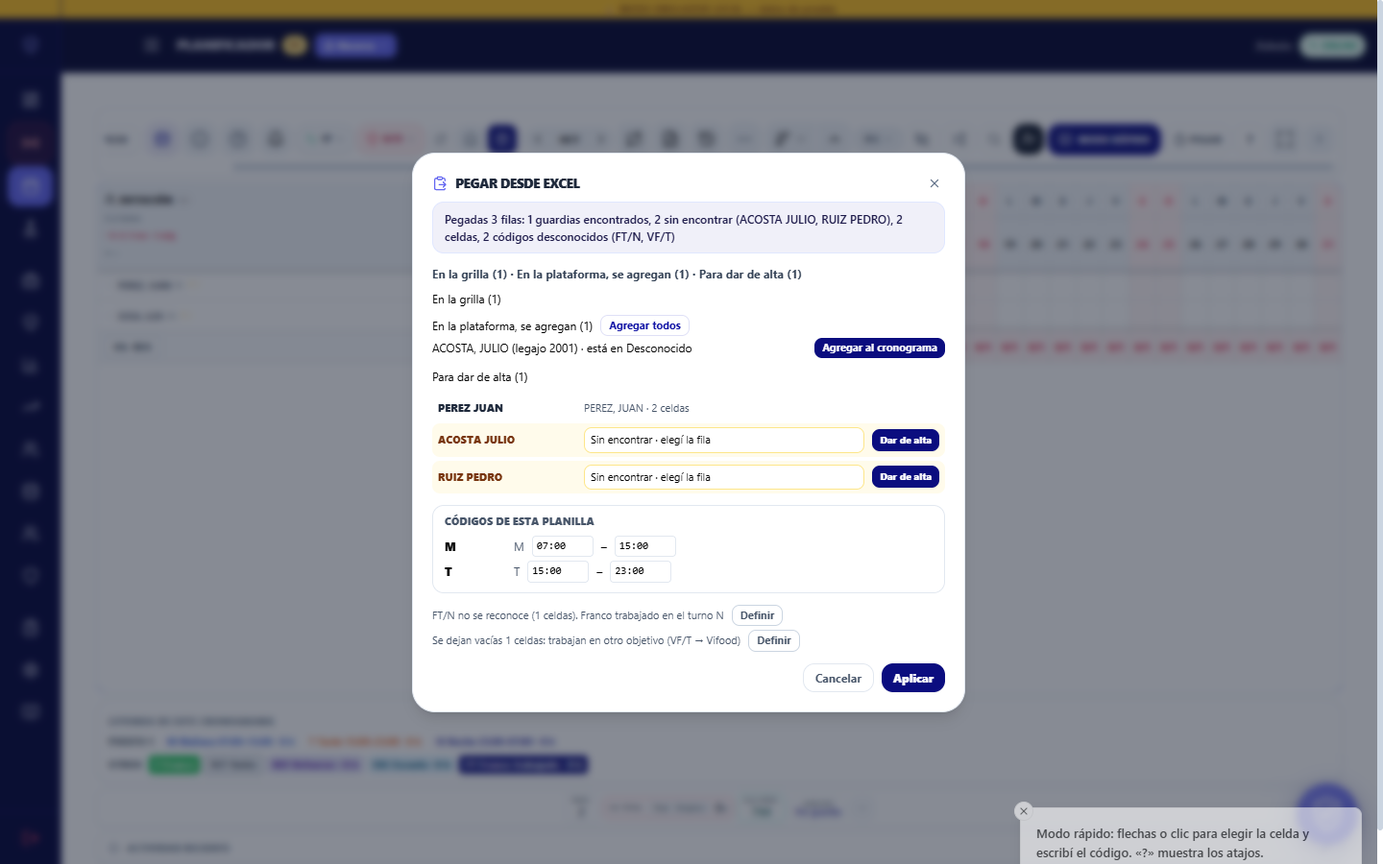
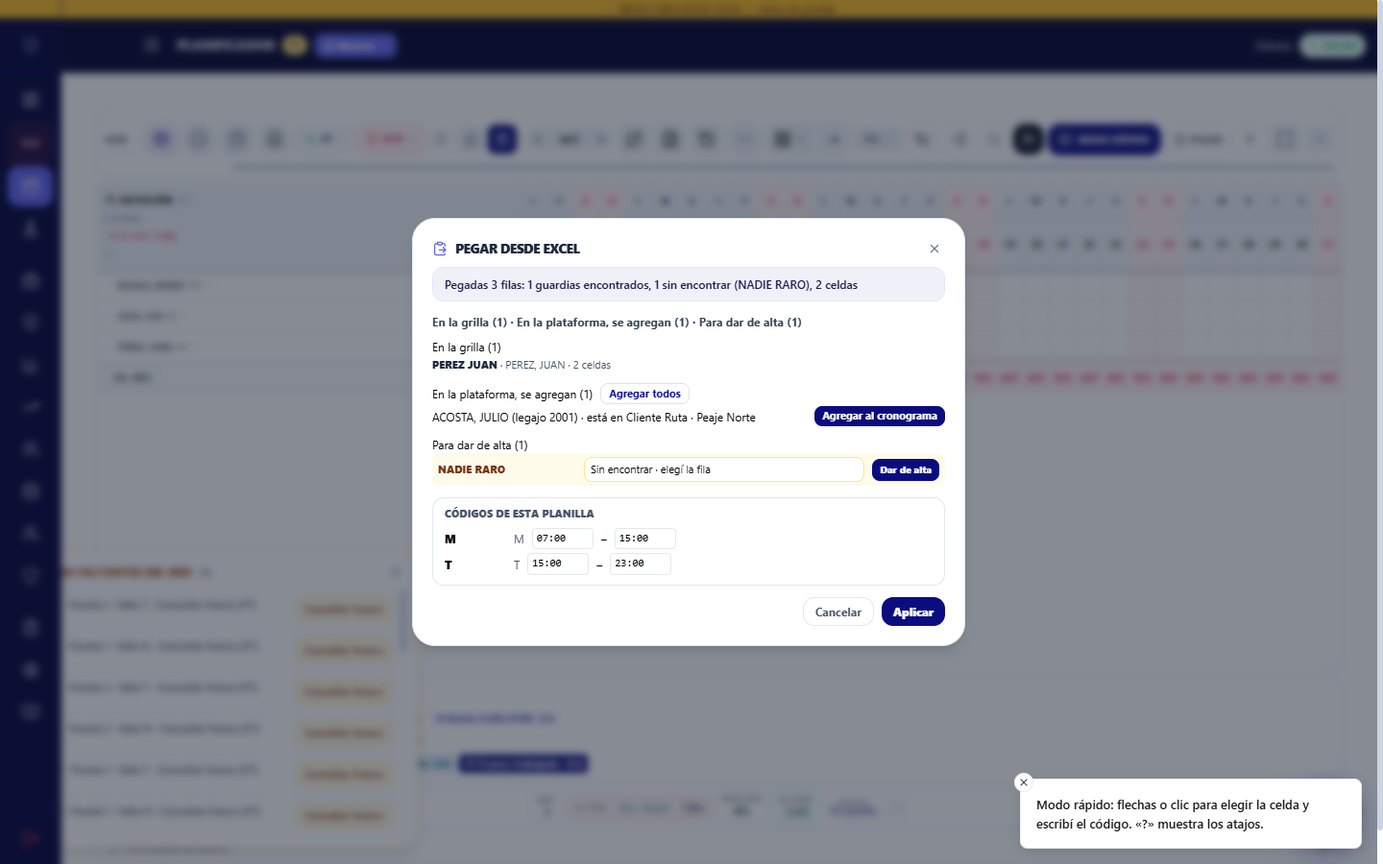
feat(planificacion): el resumen de pegado dice el objetivo real y no duplica al guardia.
Quien ya está en la plataforma no vuelve a «sin encontrar», y el lugar sale de los turnos del mes resuelto contra el cliente y el objetivo.

diff --git a/apps/web2/src/components/planificacion/ModoRapidoPiezas.tsx b/apps/web2/src/components/planificacion/ModoRapidoPiezas.tsx
@@ -2,7 +2,7 @@ import React, { useEffect, useMemo, useRef, useState } from 'react';
 import { createPortal } from 'react-dom';
 import { AlertTriangle, ClipboardPaste, Keyboard, Search, X } from 'lucide-react';
 import { agruparAvisos, ATAJOS_MODO_RAPIDO, idAviso, idGrupoAviso, textoDiaE, textoResumenPegado, type AvisoRapido, type FilaPegadoExcel, type GuardiaPegado, type PreviewPegadoExcel, type TipoNovedadRapida } from '@/lib/planificacion/modoRapido';
-import { clasificarPegado, textoGruposPegado, textoPlataforma } from '@/lib/planificacion/pegarPersonas';
+import { clasificarPegado, indicesAsignados, sinEncontrarVisibles, textoGruposPegado, textoPlataforma } from '@/lib/planificacion/pegarPersonas';
 import { equivalenciaDeDefinicion, proponerDefinicion, textoCeldasVacias } from '@/lib/planificacion/definirCodigo';
 import { cambiosHorarioServicio } from '@/lib/planificacion/codigosHorarioPegado';
 
@@ -360,14 +360,16 @@ export function PegarExcelModal({
     const [definiendo, setDefiniendo] = useState<string | null>(null);
     const [horarios, setHorarios] = useState(tabla || []);
     useEffect(() => { if (tabla) setHorarios(tabla); }, [tabla]);
+    const grupos = estado.paso === 'resumen' ? clasificarPegado(estado.preview.filas, plataforma || [], padron || null) : null;
+    const enPlataformaIdx = new Set(grupos?.enPlataforma.map((x) => x.fila.indice) ?? []);
+    const ocupadas = new Set(estado.paso === 'resumen' ? Object.values(estado.asignacion).filter((v): v is number => v != null) : []);
     const resumen = estado.paso === 'resumen' ? textoResumenPegado({
         filas: estado.preview.filas.length,
         encontrados: estado.preview.filas.filter((f) => estado.asignacion[f.indice] != null).length,
-        sinEncontrar: estado.preview.filas.filter((f) => estado.asignacion[f.indice] == null).map((f) => f.nombre),
+        sinEncontrar: sinEncontrarVisibles(estado.preview.filas, indicesAsignados(estado.asignacion), enPlataformaIdx),
         celdas: estado.preview.filas.reduce((a, f) => a + (estado.asignacion[f.indice] == null ? 0 : f.celdas.length), 0),
         desconocidos: estado.preview.desconocidos,
     }) : '';
-    const ocupadas = new Set(estado.paso === 'resumen' ? Object.values(estado.asignacion).filter((v): v is number => v != null) : []);
     return (
         <div className="fixed inset-0 z-[12000] flex items-center justify-center bg-slate-900/50 p-4 backdrop-blur-sm" onClick={onCerrar} data-pegar-excel={estado.paso}>
             <div className="max-h-[calc(100dvh-2rem)] w-full max-w-xl overflow-auto rounded-3xl border border-slate-200 bg-white p-5 shadow-lg" onClick={(e) => e.stopPropagation()}>
@@ -443,35 +445,45 @@ export function PegarExcelModal({
                                 <p className="text-[10px] leading-snug text-amber-800">Vincular asigna a cada guardia al servicio del evento (respeta el cupo). Sin vincular, la celda queda marcada «Afectado a evento» y no se escribe ningún turno.</p>
                             </div>
                         )}
-                        {estado.paso === 'resumen' && plataforma && (() => {
-                            const g = clasificarPegado(estado.preview.filas, plataforma, padron || null);
-                            return (
-                                <div className="mb-3 space-y-2 text-[12px]" data-pegar-grupos>
-                                    <p className="font-bold text-slate-700" data-pegar-grupos-texto>{textoGruposPegado(g)}{fechaPadron ? ` · Padrón del ${fechaPadron}` : ''}</p>
-                                    <p data-pegar-en-grilla>En la grilla ({g.enGrilla.length})</p>
-                                    <div data-pegar-en-plataforma>
-                                        <div className="flex items-center gap-2">
-                                            <span>En la plataforma, se agregan ({g.enPlataforma.length})</span>
-                                            {g.enPlataforma.length > 0 && onAgregarTodos && (
-                                                <button type="button" className="rounded-lg border border-indigo-200 px-2 py-0.5 text-[11px] font-bold text-indigo-700" data-pegar-agregar-todos onClick={() => onAgregarTodos(g.enPlataforma.map((x) => ({ fila: x.fila, personaId: x.persona.id })))}>Agregar todos</button>
-                                            )}
-                                        </div>
-                                        {g.enPlataforma.map((x) => (
-                                            <div key={x.fila.indice} className="flex items-center gap-2 py-0.5" data-pegar-plataforma={x.persona.legajo}>
-                                                <span className="flex-1">{textoPlataforma(x.persona)}</span>
-                                                <button type="button" className="rounded-lg bg-indigo-600 px-2 py-0.5 text-[11px] font-bold text-white" data-pegar-agregar={x.persona.id} onClick={() => onAgregar?.(x.fila, x.persona.id)}>Agregar al cronograma</button>
-                                            </div>
-                                        ))}
-                                    </div>
-                                    <p data-pegar-para-alta>Para dar de alta ({g.paraAlta.length})</p>
+                        {estado.paso === 'resumen' && grupos && (
+                            <div className="mb-3 space-y-2 text-[12px]" data-pegar-grupos>
+                                <p className="font-bold text-slate-700" data-pegar-grupos-texto>{textoGruposPegado(grupos)}{fechaPadron ? ` · Padrón del ${fechaPadron}` : ''}</p>
+                                <div data-pegar-en-grilla>
+                                    <p>En la grilla ({grupos.enGrilla.length})</p>
+                                    {grupos.enGrilla.map((f) => {
+                                        const guardia = guardias.find((g) => g.fila === (estado.asignacion[f.indice] ?? f.filaGrilla));
+                                        return (
+                                            <p key={f.indice} className="py-0.5 text-[11px] text-slate-600">
+                                                <span className="font-black text-slate-800">{f.nombre}</span>
+                                                {guardia ? ` · ${guardia.nombre}` : ''} · {f.celdas.length} celdas
+                                            </p>
+                                        );
+                                    })}
                                 </div>
-                            );
-                        })()}
-                        <ul className="mb-3 max-h-64 space-y-1 overflow-auto">
-                            {estado.preview.filas.map((f) => (
-                                <FilaResumen key={f.indice} fila={f} guardias={guardias} ocupadas={ocupadas} asignada={estado.asignacion[f.indice] ?? null} onAsignar={onAsignar} puedeAlta={puedeAlta} onDarDeAlta={onDarDeAlta} />
-                            ))}
-                        </ul>
+                                <div data-pegar-en-plataforma>
+                                    <div className="flex items-center gap-2">
+                                        <span>En la plataforma, se agregan ({grupos.enPlataforma.length})</span>
+                                        {grupos.enPlataforma.length > 0 && onAgregarTodos && (
+                                            <button type="button" className="rounded-lg border border-indigo-200 px-2 py-0.5 text-[11px] font-bold text-indigo-700" data-pegar-agregar-todos onClick={() => onAgregarTodos(grupos.enPlataforma.map((x) => ({ fila: x.fila, personaId: x.persona.id })))}>Agregar todos</button>
+                                        )}
+                                    </div>
+                                    {grupos.enPlataforma.map((x) => (
+                                        <div key={x.fila.indice} className="flex items-center gap-2 py-0.5" data-pegar-plataforma={x.persona.legajo}>
+                                            <span className="flex-1">{textoPlataforma(x.persona)}</span>
+                                            <button type="button" className="rounded-lg bg-indigo-600 px-2 py-0.5 text-[11px] font-bold text-white" data-pegar-agregar={x.persona.id} onClick={() => onAgregar?.(x.fila, x.persona.id)}>Agregar al cronograma</button>
+                                        </div>
+                                    ))}
+                                </div>
+                                <div data-pegar-para-alta>
+                                    <p>Para dar de alta ({grupos.paraAlta.length})</p>
+                                    <ul className="max-h-64 space-y-1 overflow-auto">
+                                        {grupos.paraAlta.map((x) => (
+                                            <FilaResumen key={x.fila.indice} fila={x.fila} guardias={guardias} ocupadas={ocupadas} asignada={estado.asignacion[x.fila.indice] ?? null} onAsignar={onAsignar} puedeAlta={puedeAlta} onDarDeAlta={onDarDeAlta} />
+                                        ))}
+                                    </ul>
+                                </div>
+                            </div>
+                        )}
                         {horarios.length > 0 && (
                             <div className="mb-3 rounded-xl border border-slate-200 px-3 py-2" data-pegar-codigos>
                                 <p className="mb-1 text-[11px] font-black uppercase text-slate-500">Códigos de esta planilla</p>

diff --git a/apps/web2/src/lib/planificacion/pegarPersonas.ts b/apps/web2/src/lib/planificacion/pegarPersonas.ts
@@ -53,10 +53,106 @@ export function textoGruposPegado(g: GruposPegado): string {
   return `En la grilla (${g.enGrilla.length}) · En la plataforma, se agregan (${g.enPlataforma.length}) · Para dar de alta (${g.paraAlta.length})`;
 }
 
+export const SIN_OBJETIVO = 'sin objetivo asignado';
+
+export type ObjetivoCatalogo = { id: string; nombre: string; cliente: string };
+
+export type TurnoLugar = { employeeId: string; objectiveId: string; date: string };
+
+/** `clients.objetivos` de la empresa: id, nombre visible y cliente. */
+export function catalogoObjetivos(clients: Array<{ name?: string; objetivos?: Array<{ id?: string; name?: string; nombre?: string }> }>): ObjetivoCatalogo[] {
+  const out: ObjetivoCatalogo[] = [];
+  for (const c of clients || []) {
+    for (const o of c.objetivos || []) {
+      const nombre = String(o?.name || o?.nombre || '').trim();
+      const id = String(o?.id || nombre).trim();
+      if (!id && !nombre) continue;
+      out.push({ id: id || nombre, nombre: nombre || id, cliente: String(c?.name || '').trim() });
+    }
+  }
+  return out;
+}
+
+/** Turnos del mapa de la grilla (clave `empleado_yyyy-mm-dd`). */
+export function turnosLugarDeMapa(shiftsMap: Record<string, { employeeId?: string; objectiveId?: string; scheduleDate?: string; isDeleted?: boolean } | null | undefined>): TurnoLugar[] {
+  const out: TurnoLugar[] = [];
+  for (const [key, s] of Object.entries(shiftsMap || {})) {
+    if (!s || s.isDeleted) continue;
+    const m = key.match(/_(\d{4}-\d{2}-\d{2})$/);
+    const date = String(s.scheduleDate || m?.[1] || '');
+    const employeeId = String(s.employeeId || (m ? key.slice(0, key.length - 11) : ''));
+    const objectiveId = String(s.objectiveId || '').trim();
+    if (!employeeId || !objectiveId || !/^\d{4}-\d{2}-\d{2}$/.test(date)) continue;
+    out.push({ employeeId, objectiveId, date });
+  }
+  return out;
+}
+
+function resolverLugar(clave: string, objetivos: ObjetivoCatalogo[]): string {
+  const id = String(clave || '').trim();
+  if (!id || id === 'Desconocido' || id === 'undefined') return '';
+  const o = objetivos.find((x) => x.id === id || x.nombre === id);
+  if (!o?.nombre) return '';
+  return o.cliente ? `${o.cliente} · ${o.nombre}` : o.nombre;
+}
+
+/**
+ * Dónde trabaja: si este mes tiene turnos, el objetivo de esos turnos
+ * (si hay varios, el que más días tiene; empate, el preferido).
+ * Si no, el objetivo preferido. Siempre resuelto contra el catálogo.
+ */
+export function lugarDeGuardia(input: {
+  employeeId: string;
+  preferredObjectiveId?: string | null;
+  month: string;
+  turnos: TurnoLugar[];
+  objetivos: ObjetivoCatalogo[];
+}): string {
+  const preferido = String(input.preferredObjectiveId || '').trim();
+  const conteo = new Map<string, number>();
+  for (const t of input.turnos) {
+    if (t.employeeId !== input.employeeId) continue;
+    if (input.month && !String(t.date || '').startsWith(`${input.month}-`)) continue;
+    const id = String(t.objectiveId || '').trim();
+    if (!id) continue;
+    conteo.set(id, (conteo.get(id) || 0) + 1);
+  }
+  let elegido = '';
+  let max = 0;
+  for (const id of [...conteo.keys()].sort()) {
+    const n = conteo.get(id) || 0;
+    if (n > max || (n === max && n > 0 && id === preferido)) {
+      max = n;
+      elegido = id;
+    }
+  }
+  if (!elegido) elegido = preferido;
+  return etiquetaLugar(resolverLugar(elegido, input.objetivos));
+}
+
+export function etiquetaLugar(nombre?: string | null): string {
+  const s = String(nombre || '').trim();
+  if (!s || s === 'Desconocido' || s === 'undefined') return SIN_OBJETIVO;
+  return s;
+}
+
+/** Índices de las filas del pegado que ya tienen guardia en la grilla. No son las filas de la grilla. */
+export function indicesAsignados(asignacion: Record<number, number | null | undefined>): Set<number> {
+  return new Set(Object.entries(asignacion).filter(([, v]) => v != null).map(([k]) => Number(k)));
+}
+
+/** Quien ya está en la grilla o en la plataforma no cuenta como «sin encontrar». */
+export function sinEncontrarVisibles(
+  filas: Array<{ indice: number; nombre: string }>,
+  asignados: ReadonlySet<number>,
+  enPlataforma: ReadonlySet<number>,
+): string[] {
+  return filas.filter((f) => !asignados.has(f.indice) && !enPlataforma.has(f.indice)).map((f) => f.nombre);
+}
+
 export function textoPlataforma(p: PersonaPlataforma): string {
   const leg = p.legajo ? ` (legajo ${p.legajo})` : '';
-  const obj = p.objetivoNombre ? ` · está en ${p.objetivoNombre}` : '';
-  return `${p.nombre}${leg}${obj}`;
+  return `${p.nombre}${leg} · está en ${etiquetaLugar(p.objetivoNombre)}`;
 }
 
 /** Los turnos de otro objetivo no se pisan: el aviso no bloquea el pegado. */

diff --git a/apps/web2/src/lib/planificacion/pegarYCodigos.test.ts b/apps/web2/src/lib/planificacion/pegarYCodigos.test.ts
@@ -1,6 +1,6 @@
 import assert from 'node:assert/strict';
 import { describe, it } from 'node:test';
-import { clasificarPegado, textoGruposPegado } from './pegarPersonas';
+import { clasificarPegado, indicesAsignados, lugarDeGuardia, sinEncontrarVisibles, textoGruposPegado, textoPlataforma, type ObjetivoCatalogo } from './pegarPersonas';
 import { equivalenciaDeDefinicion, proponerDefinicion, textoCeldasVacias, yaDefinido } from './definirCodigo';
 import { diagonal, alternarCelda, pegarForma } from './seleccionLibre';
 import { cambiosHorarioServicio, tablaCodigosPlanilla, textoFueraDeServicio } from './codigosHorarioPegado';
@@ -38,6 +38,66 @@ describe('orden de búsqueda al pegar', () => {
     assert.equal(g.paraAlta[1].enPadron, false);
     assert.match(textoGruposPegado(g), /En la grilla \(1\)/);
     assert.match(textoGruposPegado(g), /Para dar de alta \(2\)/);
+    const asignados = new Set(g.enGrilla.map((f) => f.indice));
+    const enPlat = new Set(g.enPlataforma.map((x) => x.fila.indice));
+    const sin = sinEncontrarVisibles(
+      [
+        peg({ indice: 0, nombre: 'PEREZ, JUAN', filaGrilla: 2, via: 'nombre' }),
+        peg({ indice: 1, nombre: 'ACOSTA, JULIO', legajo: '3420' }),
+        peg({ indice: 2, nombre: 'SOSA, PEDRO', legajo: '5001' }),
+        peg({ indice: 3, nombre: 'NADIE, RARO' }),
+      ],
+      asignados,
+      enPlat,
+    );
+    assert.deepEqual(sin, ['SOSA, PEDRO', 'NADIE, RARO']);
+    assert.equal(sin.includes('ACOSTA, JULIO'), false);
+    assert.equal(g.enPlataforma.some((x) => g.paraAlta.some((a) => a.fila.indice === x.fila.indice)), false);
+    const filas = [
+      peg({ indice: 0, nombre: 'PEREZ, JUAN' }),
+      peg({ indice: 1, nombre: 'ACOSTA, JULIO' }),
+      peg({ indice: 2, nombre: 'NADIE, RARO' }),
+    ];
+    const malContadas = sinEncontrarVisibles(filas, indicesAsignados({ 0: 2, 1: null, 2: null }), new Set([1]));
+    assert.deepEqual(malContadas, ['NADIE, RARO']);
+  });
+
+  it('el lugar es cliente · objetivo del mes, o sin objetivo asignado', () => {
+    const objetivos: ObjetivoCatalogo[] = [
+      { id: 'obj_padron', nombre: 'Objetivo Prueba', cliente: 'Cliente Prueba' },
+      { id: 'obj_ruta', nombre: 'Peaje Norte', cliente: 'Cliente Ruta' },
+    ];
+    const turnos = [
+      { employeeId: 'acosta', objectiveId: 'obj_ruta', date: '2026-10-01' },
+      { employeeId: 'acosta', objectiveId: 'obj_ruta', date: '2026-10-02' },
+      { employeeId: 'acosta', objectiveId: 'obj_padron', date: '2026-09-30' },
+      { employeeId: 'mixto', objectiveId: 'obj_padron', date: '2026-10-01' },
+      { employeeId: 'mixto', objectiveId: 'obj_ruta', date: '2026-10-02' },
+      { employeeId: 'mixto', objectiveId: 'obj_ruta', date: '2026-10-03' },
+    ];
+    assert.equal(lugarDeGuardia({
+      employeeId: 'acosta', preferredObjectiveId: '', month: '2026-10', turnos, objetivos,
+    }), 'Cliente Ruta · Peaje Norte');
+    assert.equal(lugarDeGuardia({
+      employeeId: 'vacio', preferredObjectiveId: '', month: '2026-10', turnos, objetivos,
+    }), 'sin objetivo asignado');
+    assert.equal(lugarDeGuardia({
+      employeeId: 'vacio', preferredObjectiveId: 'obj_padron', month: '2026-10', turnos: [], objetivos,
+    }), 'Cliente Prueba · Objetivo Prueba');
+    assert.equal(lugarDeGuardia({
+      employeeId: 'mixto', preferredObjectiveId: 'obj_padron', month: '2026-10', turnos, objetivos,
+    }), 'Cliente Ruta · Peaje Norte');
+    assert.equal(lugarDeGuardia({
+      employeeId: 'roto', preferredObjectiveId: 'no-existe', month: '2026-10', turnos: [], objetivos,
+    }), 'sin objetivo asignado');
+    assert.equal(
+      textoPlataforma({ id: 'a', nombre: 'ACOSTA, JULIO', legajo: '2001', objetivoNombre: 'Desconocido' }),
+      'ACOSTA, JULIO (legajo 2001) · está en sin objetivo asignado',
+    );
+    assert.equal(
+      textoPlataforma({ id: 'a', nombre: 'ACOSTA, JULIO', legajo: '2001', objetivoNombre: 'Cliente Ruta · Peaje Norte' }),
+      'ACOSTA, JULIO (legajo 2001) · está en Cliente Ruta · Peaje Norte',
+    );
   });
 });
 

diff --git a/apps/web2/src/pages/admin/planificacion/index.tsx b/apps/web2/src/pages/admin/planificacion/index.tsx
@@ -263,6 +263,7 @@ import {
 } from '@/lib/planificacion/modoRapido';
 import { tablaCodigosPlanilla } from '@/lib/planificacion/codigosHorarioPegado';
 import { mesLabelDe, resolverTurnoCopiado } from '@/lib/planificacion/copiarTurno';
+import { catalogoObjetivos, lugarDeGuardia, turnosLugarDeMapa } from '@/lib/planificacion/pegarPersonas';
 import {
     CANAL_PORTAPAPELES,
     KEY_PORTAPAPELES,
@@ -3097,8 +3098,10 @@ function PlanificacionDesktop() {
 
     useEffect(() => {
         if (!selectedObjective) return;
+        const ids = displayedEmployees.map((e: { id: string }) => e.id);
+        if (!ids.length) return;
         const month = `${currentDate.getFullYear()}-${String(currentDate.getMonth() + 1).padStart(2, '0')}`;
-        publicarOrdenCrono(selectedObjective, displayedEmployees.map((e: { id: string }) => e.id), month);
+        publicarOrdenCrono(selectedObjective, ids, month);
     }, [selectedObjective, displayedEmployees, currentDate]);
 
     useEffect(() => {
@@ -19364,12 +19367,23 @@ function PlanificacionDesktop() {
                         })}
                         onAplicar={aplicarPegadoExcel}
                         puedeAlta={isSuperAdmin || (rolePermissions['RRHH'] || []).includes('create')}
-                        plataforma={(employees || []).filter((e: any) => e.status !== 'inactivo').map((e: any) => ({
-                            id: e.id,
-                            nombre: String(e.name || ''),
-                            legajo: String(e.fileNumber || ''),
-                            objetivoNombre: e.preferredObjectiveId ? getObjectiveName(e.preferredObjectiveId) : '',
-                        }))}
+                        plataforma={(() => {
+                            const month = `${currentDate.getFullYear()}-${String(currentDate.getMonth() + 1).padStart(2, '0')}`;
+                            const objetivos = catalogoObjetivos(clients || []);
+                            const turnos = turnosLugarDeMapa(shiftsMap);
+                            return (employees || []).filter((e: any) => e.status !== 'inactivo').map((e: any) => ({
+                                id: e.id,
+                                nombre: String(e.name || ''),
+                                legajo: String(e.fileNumber || ''),
+                                objetivoNombre: lugarDeGuardia({
+                                    employeeId: String(e.id || ''),
+                                    preferredObjectiveId: e.preferredObjectiveId,
+                                    month,
+                                    turnos,
+                                    objetivos,
+                                }),
+                            }));
+                        })()}
                         fechaPadron=""
                         onAgregar={(fila, personaId) => {
                             setPinnedExternalEmpIds((prev) => new Set([...prev, personaId]));

diff --git a/CLAUDE.md b/CLAUDE.md
@@ -205,15 +205,11 @@ Acciones por módulo: `read`, `create`, `update`, `delete`.
 
 **Padrón de legajos (10/10, `rrhh-padron`):** RRHH → Legajos → **Padrón** (RRHH `update` o SuperAdmin). Sube el Excel (hoja SP, con o sin encabezado) y compara contra `empleados` de la empresa: Nuevos, Cambios (campo por campo), Bajas para revisar e Iguales. «Aplicar seleccionados» da de alta y actualiza por el mismo escritor del legajo (`confirmarAltaLegajo`, auditoría `PADRON_ALTA` / `PADRON_CAMBIO`). Las bajas no se aplican solas: «Revisar baja» confirma persona por persona y deja `status: inactivo` (nunca se borra). La carga queda en `padron_empleados/{empresaId}_{legajo}` (`enPadron`, `actualizadoAt`, `actualizadoPor`, `origenArchivo`) y el resumen en `padron_estado/{empresaId}`. Una carga nueva reemplaza la consulta: quien ya no viene queda `enPadron: false`. El «Dar de alta» del pegado busca primero ahí y muestra «Padrón del dd/mm/yyyy»; si no hay padrón o la persona no está, ofrece el Excel o el alta manual. Reglas en el repo, sin publicar. Lógica: `lib/rrhh/padronComparar.ts`, `lib/rrhh/padronClient.ts`.
 
-**Pegar nombres y códigos (10/10):** si el nombre no está en la grilla, se busca en los legajos de la empresa (`clasificarPegado`) y el resumen separa «En la grilla», «En la plataforma, se agregan» (pin de dotación, el mismo que «Agregar al cronograma») y «Para dar de alta». Un código desconocido tiene **Definir**: FT/N propone franco trabajado en la N; VF/T, BANCO, STOCK, DECAT, MISE y PM se dejan vacíos (otro objetivo) y se guardan en `planificacion_import_mapeos` para no volver a preguntar. El resumen también muestra «Códigos de esta planilla» con horario editable; si difiere del servicio se ofrece actualizarlo. En modo rápido, debajo de la grilla va la leyenda de códigos (`LeyendaModoRapido`, solo con el modo prendido) y la selección puede ser suelta (Ctrl+clic / Ctrl+espacio) o diagonal (Alt+arrastre / Alt+Shift+flecha).
+**Pegar nombres y códigos (10/10):** si el nombre no está en la grilla, se busca en los legajos de la empresa (`clasificarPegado`) y el resumen separa «En la grilla», «En la plataforma, se agregan» (pin de dotación, el mismo que «Agregar al cronograma») y «Para dar de alta». Cada guardia queda en un solo grupo: quien está en la plataforma no vuelve a «sin encontrar» ni a «Para dar de alta», y el contador del resumen cuenta solo a los que no están. El lugar es «cliente · objetivo» (`lugarDeGuardia`): el objetivo de los turnos de ese mes (si hay varios, el de más días) y, si no hay, el preferido, resuelto contra `clients.objetivos`; si no tiene, «sin objetivo asignado». Un código desconocido tiene **Definir**: FT/N propone franco trabajado en la N; VF/T, BANCO, STOCK, DECAT, MISE y PM se dejan vacíos (otro objetivo) y se guardan en `planificacion_import_mapeos` para no volver a preguntar. El resumen también muestra «Códigos de esta planilla» con horario editable; si difiere del servicio se ofrece actualizarlo. En modo rápido, debajo de la grilla va la leyenda de códigos (`LeyendaModoRapido`, solo con el modo prendido) y la selección puede ser suelta (Ctrl+clic / Ctrl+espacio) o diagonal (Alt+arrastre / Alt+Shift+flecha).
 
 **Copiar el turno del puesto (10/10, modo rápido):** Ctrl+C / Ctrl+V, Ctrl+D / Ctrl+R y el tirador copian el turno de la celda origen: código, `positionName` y horario (`resolverTurnoCopiado` en `lib/planificacion/copiarTurno.ts`). Pegar el M de Puesto 2 deja M de Puesto 2 con ese horario, aunque el guardia destino tenga otro puesto por defecto. Si el puesto no está en el servicio del mes destino, se usa el puesto del guardia con ese código y Avisos dice «Puesto 2 no está en el servicio de noviembre: se usó Puesto 1». Si el puesto por defecto es otro, el aviso es «REGALO tomó un turno de Puesto 2» (informativo). El portapapeles interno (`cosp-planif-portapapeles`, BroadcastChannel) guarda puesto y horario entre objetivos, meses y la ventana externa. El pegado desde Excel sigue por la tabla de equivalencias.
 
 **Ventana externa (10/10, `/admin/planificacion/crono-popout`):** menú ⋯ → Ventana externa. Muestra la dotación del cronograma principal en el mismo orden de filas (`publicarOrdenCrono`, se actualiza si se reordena). Solo lista quien tiene turno en el objetivo y mes que se está viendo; el resto queda en «N sin turno en este mes». Solo lectura: clic, Mayús o arrastre y Ctrl+C copian código, puesto y horario al portapapeles compartido (y TSV al del sistema) para Ctrl+V en la grilla. Con la columna de nombres, el pegado se alinea por guardia; sin ella, por posición. Selector «Día del mes | Día de la semana»: en meses distintos, la semana alinea la columna 1 con el mismo día de la semana que el cronograma principal.
-
-**Copiar el turno del puesto (10/10):** en modo rápido, Ctrl+C / Ctrl+V, Ctrl+D / Ctrl+R y el tirador copian el turno de la celda origen: código, `positionName` y horario de esa franja (un código propio viaja con el puesto). `resolverTurnoCopiado` (`lib/planificacion/copiarTurno.ts`). Si el puesto no está en el servicio del mes destino, se usa el puesto del guardia con ese código y Avisos dice «Puesto 2 no está en el servicio de noviembre: se usó Puesto 1». Si el puesto por defecto del destino es otro, se respeta el origen y Avisos dice «REGALO tomó un turno de Puesto 2». El portapapeles interno (`cosp-planif-portapapeles`, BroadcastChannel) guarda puesto y horario entre objetivos y meses. El pegado desde Excel sigue por la tabla de equivalencias.
-
-**Ventana externa (10/10, `/admin/planificacion/crono-popout`):** menú ⋯ → Ventana externa. Muestra la dotación del cronograma principal (`main=` en la URL) en el mismo orden de filas (`publicarOrdenCrono` / `cosp-planif-orden:{objetivo}`, BroadcastChannel y `storage`). Si el principal reordena, la ventana se actualiza. Solo lista quien tiene turno en el objetivo y mes que se está viendo; el resto queda colapsado («3 sin turno en este mes»). Sigue en solo lectura: clic, Mayús o arrastre y Ctrl+C copian código, puesto y horario al portapapeles compartido y como TSV. Con la columna del nombre, Ctrl+V en la grilla principal alinea por guardia; sin nombre, por posición. El selector «Día del mes / Día de la semana» alinea el lunes para comparar rachas entre meses.
 
 **Modo rápido de la grilla (escritorio, 09/10):** botón **Modo rápido** en la barra (`data-modo-rapido-toggle`), recordado por usuario en `localStorage` `cosp-planif-modo-rapido:{uid}`, con **?** (atajos, `ModoRapidoAyuda`). La grilla se usa como una planilla: flechas, Tab / Shift+Tab, Enter, Home / End, Ctrl+flechas (salto al borde del bloque), PageUp/Down, Esc, scroll que sigue al cursor; se tipea el código en la celda (autocompletar con los turnos del puesto, F2 edita, Supr borra). Horario del código: SLA del puesto → estándar (M 07–15, T 15–23, N 23–07, D12 07–19, N12 19–07) → el último usado con ese código (`horarioDeCodigo`). Cualquier código del catálogo `tipos_novedad` (V, E, A, ART, SGS, SUS, LT, MAVIC, PG…; `resolverNovedad`, el mismo predicado `esCeldaLicencia`) se tipea o se elige con Ctrl+L o `/` y va por la misma escritura de ausencia que el modal (novedad pendiente → `ausencias` al guardar, un registro por rango continuo con `fusionarNovedadesContinuas`), sin modal; sobre un turno conserva la banda (`camposBandaConservada`). Supr quita el borrador; una ausencia ya guardada pide confirmación y pasa a `Rechazada`. Rango con Shift o arrastre: lo tipeado va a todo el rango; Ctrl+C / Ctrl+X / Ctrl+V entre objetivos y meses (portapapeles interno) y pegado desde Excel (`prepararPegadoExcel`): si el bloque trae nombre, legajo o puesto antes de los días, se alinea por guardia (legajo, luego apellido y nombre, luego parecido) y el resumen pide Aplicar o Cancelar —los que no están se asignan a mano en ese cuadro—; un mes de 28 a 31 días entra desde el día 1 y un recorte desde el día del cursor; sin nombres se pega por posición; Ctrl+V sin cursor y el botón Pegar usan el día 1. Alias: espacios afuera («P1 M» → P1M), RETEN y R → RET, LIC ANUAL y VAC → V, ART → A, CM → E, FRANCO → F; lo que el servicio no tiene no se escribe y queda listado. El «?» y el autocompletar salen en un portal (la barra los recortaba) y Esc los cierra; la ayuda dice que al pegar desde Excel se lee el color del HTML (`pegadoExcelColor.ts`): la M y la N rojas pasan a D12 y N12, la E amarilla es evento y el CM naranja es Enfermedad; si el color no viaja, las de 12 h se escriben D12 y N12 y la E se pregunta en el resumen; Ctrl+D / Ctrl+R; tirador que continúa ciclos (`detectarCiclo`, `planSerie`); Ctrl+Z / Ctrl+Y (`redoStackRef`); Ctrl+S guarda; contador «N camb.» (`data-cambios-pendientes`). Validaciones sin bloquear: descanso, tope, licencia y solape se marcan en la celda y en el panel **Avisos** (`ModoRapidoAvisosPanel`, `avisosModoRapido`); al guardar, menos de 8 h de descanso no se guarda y descanso 8–12 h y tope piden **un solo PIN** agrupado (`autorizacionesAlGuardar` → `requestSupervisorLaborAuth`, marca `descansoReducido` / `topeExcedido`). Mes cerrado, otro objetivo, comparación y mes publicado sin corrección siguen bloqueando con un toast (no modal). **Sin servicio:** en modo rápido se edita con el aviso «Sin servicio: no se valida cobertura» y la fila COBERTURA dice eso (`data-cobertura-sin-servicio`); fuera del modo, el aviso ofrece «Planificar igual (modo rápido)». Publicar sin servicio muestra la advertencia a todos (`data-publicar-sin-servicio`). **Avisos** (`ModoRapidoAvisosPanel`, `agruparAvisos`): pastilla «N avisos» abajo a la derecha (arranca minimizada si hay más de 3; se recuerda en `cosp-planif-avisos-abierto`); al abrir se agrupa por guardia y un clic lleva el cursor a la celda. Cada aviso y cada grupo tienen «Visto» (X) y «Marcar todos como vistos»: solo sale de la lista y de la pastilla, la marca de la celda queda más tenue y el PIN al guardar sigue. Se recuerda por objetivo-mes en `cosp-planif-avisos-vistos:{objetivo}:{yyyy-mm}` con la identidad tipo + guardia + días + horas (`idAviso`); si cambia el día o las horas, vuelve. **+ / −** (`cierre12h.ts`): M o N pasa a D12/N12 en el puesto (o − vuelve a 8 h); si falta una banda de 8 h, propone el par que la cubre (D12+N12, la misma cuenta de «Puestos sin cerrar») o un solo lado con `applySingleWorkerFullGapCloseToChanges` / `listExtensionCandidates`, y Enter confirma. El par no incluye a quien ese día (o el día del tramo) tiene licencia, ausencia (AA, aviso del portal, `esCeldaLicencia`) o no tiene turno de trabajo en el puesto: si no hay par, «No hay quién cubra la M de Puesto 1 con 12 h: falta el turno de la noche» y se ofrece el de un solo lado. El horario D12/N12 sale del SLA del puesto de ese mes (Obrador septiembre Puesto 1: 08:00–20:00 / 20:00–08:00; octubre: 07:00–19:00 / 19:00–07:00). «E» tipeada en la grilla es Enfermedad y no se completa a EV (`codigoAlConfirmar`); EV no entra al último usado ni se escribe desde la grilla. Al pegar, la E amarilla (o «EV» escrito) es evento: el resumen ofrece vincularla a un evento ya cargado ese día y asigna por `asignarNominaAServicioEvento` (el mismo camino que el detalle del evento, con cupo). Sin color, la E es ambigua y el resumen pregunta por día (`textoDiaE`), por defecto Evento si la tienen 3 o más guardias. Sin vincular queda la marca «Afectado a evento» sin horas ni turno (`cosp-planif-afectado-evento:{objetivo}:{yyyy-mm}`) y el aviso «Cargá el evento del dd/mm en Eventos para asignarlos». Nunca se escribe un turno EV sin `eventoId`. La celda se pinta como evento solo con `code === 'EV'` u `origin === 'EVENTO'`; una licencia E junto a un evento sigue siendo E, con marca. Shift++ o + en la fila COBERTURA cierra las bandas de ese día. Piezas: `lib/planificacion/modoRapido.ts` (lógica pura), `components/planificacion/ModoRapidoCapa.tsx` (cursor, rango, editor y marcas como capa sobre la grilla: mover el cursor no re-renderiza la página; `td[data-rc]`), `ModoRapidoPiezas.tsx`. `getDateKey` usa un formatter único con memo por ms (antes creaba un `Intl.DateTimeFormat` por llamada: confirmar un código bajó de ~530 ms a ~40 ms de render). Medido en 10 × 30 (headless, descontado el overhead del harness): mover el cursor ≈ 3,5 ms y tipear ≈ 11 ms de CPU sin render de la página; confirmar un código ≈ 39 ms de render. Tests: `modoRapido.test.ts` y `pegadoExcelColor.test.ts` en `npm run test:planif-cobertura`. E2E por teclado (emulador aislado 8190/9199): `npx firebase emulators:start --only auth,firestore --config firebase.e2e-p2.json --project comtroldata`, `FIRESTORE_EMULATOR_HOST=127.0.0.1:8190 FIREBASE_AUTH_EMULATOR_HOST=127.0.0.1:9199 node scripts/seed-captura-modo-rapido.mjs`, `next build` y `PLANIF_EMU_PORTS=8080:8190,9099:9199 FIRESTORE_EMULATOR_HOST=127.0.0.1:8190 node scripts/e2e-modo-rapido.mjs` y `PLANIF_EMU_PORTS=8080:8190,9099:9199 FIRESTORE_EMULATOR_HOST=127.0.0.1:8190 node scripts/e2e-modo-rapido-pegar.mjs` (TSV real de Tadicor y Casisa Ruta 20, capturas `modo-rapido-ayuda.png`, `modo-rapido-pegar-*.png`, `modo-rapido-avisos-v2.png`, `modo-rapido-12h-*.png` y `modo-rapido-novedad.png`). El teclado (`e2e-modo-rapido.mjs`) carga un mes de 10 guardias en 305 teclas, Ctrl+D/Z/Y, licencia por rango, avisos, PIN agrupado, guardado, TSV en sin servicio; capturas `docs/capturas-cobertura/modo-rapido-*.png`); costo por tecla aislado: `node scripts/medir-modo-rapido.mjs`.
 **Mes cerrado (08/10):** el último día del mes &lt; hoy (hora AR) deja el cronograma en solo lectura (`mesCerrado` / `puedeEditarMesPlanificacion`). «Cob. abiertas», el chip, el pie, la fila COBERTURA y «Puestos sin cerrar» no muestran pendiente: lo no cubierto queda en gris, histórico, sin «cubrir». No se asigna, borra, pega, abre el menú de cobertura ni se publica. El menú y la barra dicen «Mes cerrado». Excepción: SuperAdmin en modo corrección (el permiso `correct` de otros roles vale solo en el mes abierto). El celular igual (`puedeCorregirEnCelular`). Los créditos Ext/Adel del mes se arman una vez (`creditosSplitPorDia`, `sumarAportePorDiaYPuesto`) y la fila los lee; no se recorre día−1/día/día+1 por celda. Sin SLA en el mes se mantiene el objetivo y la grilla, con el aviso «No hay servicio en este mes».
